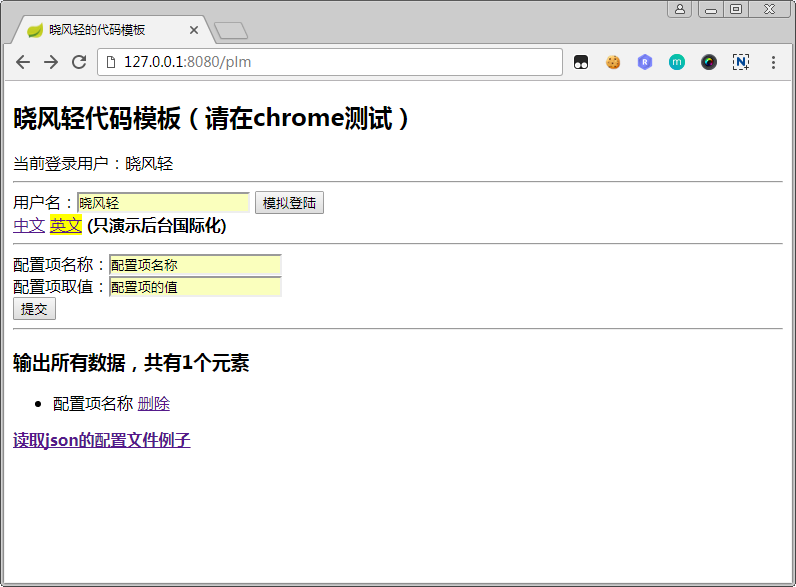
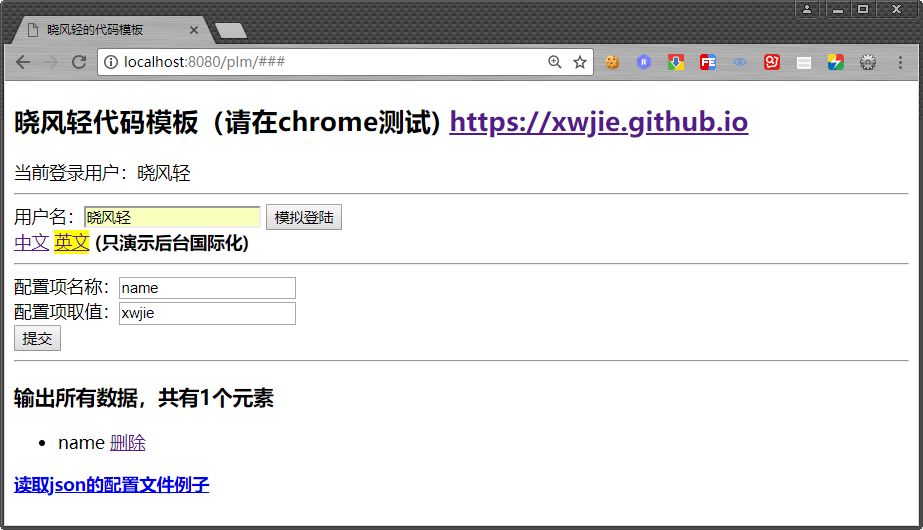
修改细节

Changed region(s): [[0.0, 0.0, 1.0, 1.0], [0.0, 0.8151, 0.2412, 0.9358]]

diff --git a/source/src/main/webapp/index.html b/source/src/main/webapp/index.html
@@ -11,7 +11,7 @@
 </head>
 <body>
 	<h2>
-		晓风轻代码模板（请在chrome测试) <a href="https://github.com/xwjie/PLMCodeTemplate">https://github.com/xwjie/PLMCodeTemplate</a>
+		晓风轻代码模板（请在chrome测试) <a href="https://xwjie.github.io/">https://xwjie.github.io</a>
 	</h2>
 	<div id="userinfo"></div>
 	<hr />
@@ -67,6 +67,11 @@
 			alert(s);
 		}
 
+		/**
+		  * 后台返回相同的数据结构，前台的代码才好写才能重用
+		  * @param result： ajax返回的结果
+		  * @param fn： 成功的处理函数（传入data）
+		  */
 		function handlerResult(result, fn) {
 			// 成功执行操作，失败提示原因
 			if (result.code == 0) {

diff --git a/README.md b/README.md
@@ -19,6 +19,16 @@
 
 ![](/pictures/main.png)
 
+# 工程使用说明
+
+工程使用jdk6+，使用了[lombok](https://projectlombok.org/)，需要在IDE里面先安装插件。
+
+然后需要把 `source\src\common` 导入为源代码目录即可。（Eclipse里面在该目录选择右键 "Build Path" -> "Use as Source Folder"）
+
+启动项目，访问地址 `http://localhost:8080/plm` 即可。
+
+![目录结构](/pictures/project.png)
+
 # 目录
 
 > * 优雅编码 - 接口定义规范
